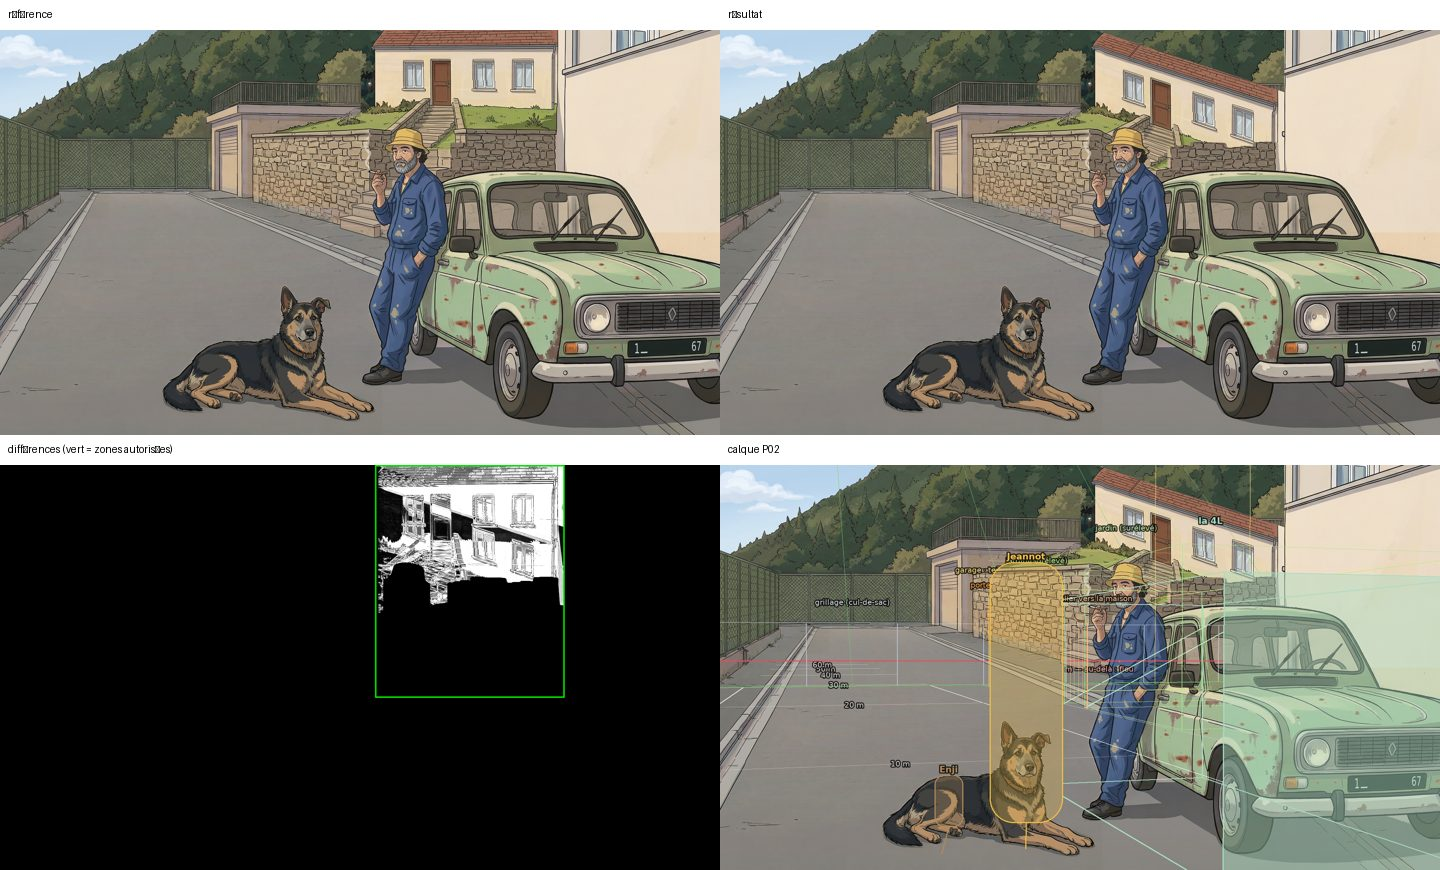
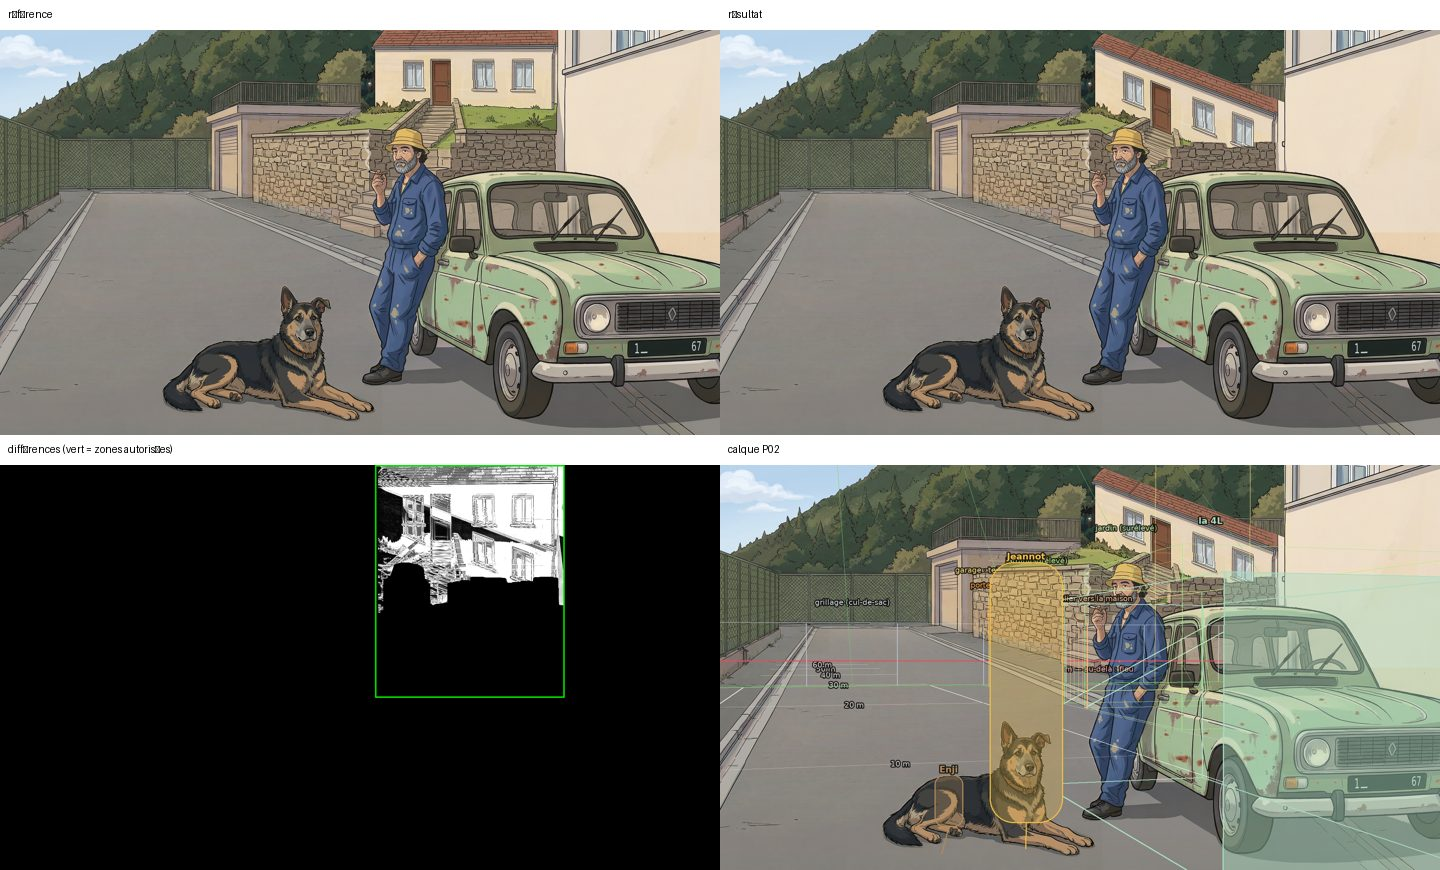
P02 : bas du mur calé sur la pente de la ligne de route (v27/v28 + planche de preuve refaites)

diff --git a/tools/p02_v27.py b/tools/p02_v27.py
@@ -44,7 +44,10 @@ DOSSIER = RACINE / "assets/storyboards/a-valider/p02"
 SRC = DOSSIER / "p02-v26-maison-parallele.png"
 
 X0, X1, RAMPE = 1000, 1505, 30
-PENTE_V26 = 0.0553                  # bas du mur de la v26 (pente de la v13)
+PENTE_V26 = 0.0016                  # bas du mur RÉELLEMENT peint dans la v26 (mesuré colonne par colonne :
+                                    # 248 colonnes, x 1200-1470, y ≈ 205 : +0,16 %).  L'ancienne valeur 0,0553
+                                    # (pente de la v13) donnait un bas du mur à 18,4° au lieu de 21,0° : la ligne
+                                    # de la planche dérivait donc de 24 px — c'était la cause du refus du 16/10.
 PENTE_ROUTE = 0.3838                # ligne de route pointée (498,429)->(993,619)
 PENTE_MURET = -0.0443               # base du mur de soutènement (la terrasse), v13/v26
 PAS_PIERRES = 40                    # hauteur d'un rang de pierres (variante B)

diff --git a/docs/storyboard-a-valider.md b/docs/storyboard-a-valider.md
@@ -248,17 +248,17 @@ Repère mesuré : dans la v13 (validée), l'écart entre le bas du mur et le bor
 - 💬 *2026-10-16 06:59* — 3 version  et la maison n'a pas bougé d'un pouce toujours mal orienté c'est incroyable . est ce que tu as regarde le plan de la carte interactive  est ce que tu crois que sur le plan la maison est orienté comme ça  et ne me parle plus de toit je te parle de la maison.Regzrde cette carte interactive regarde regarde bien la maison comment elle est sur le plan  rien  de compliqué pourtant.
 
 **P02 · v27** — ⏳ à valider — tools/p02_v27.py --variante A — la v26 telle quelle, sauf la maison, le jardin et la terrasse : cisaillement vertical par colonne à décalage ENTIER (aucun rééchantillonnage : les pixels sont recopiés tels quels, les verticales restent verticales, les angles entre les lignes sont conservés — c'est le style « projection cavalière » déjà utilisé par la v26), ancré à l'ouest (x 1000 : rien ne bouge) et arrêté à x 1505 (le mur de la maison voisine ne bouge pas). Le bas du mur passe de +5,5 % (v26) à **+38,38 %**, la pente exacte de la ligne de route pointée (498,429)->(993,619). Le bandeau libéré au-dessus du toit est comblé par la forêt voisine copiée en miroir 2D (aucun flou, aucune couleur nouvelle). Jeannot, la 4L et la rue ne sont jamais touchés : le cisaillement s'arrête à leur contour. Contrôle p02-v27-controle.jpg (CONFORME : hors zones 0,00 ; zone couleurs 100 %, netteté ×0,94, bord 17,4) · 🟢 conforme à la carte actuelle (rév. 2)  
-**Réponse directe à l'avis du 16/10 06:58** (« dis-moi en quoi ces lignes sont parallèles ? »). Mesure de tes pointages : ta ligne de façade (1000,212)->(1470,217) est à **+1,1 %** et ta ligne de route (498,429)->(993,619) à **+38,4 %** — elles se croisent en (−98 ; 200) : tu as raison, elles n'étaient pas parallèles. Ici **le bas du mur de la maison prend exactement la pente de ta ligne de route** : les deux droites sont donc parallèles (voir la planche de contrôle **P02 · v27-preuve** : les deux lignes se superposent). Effet : la maison descend vers la droite à 21°, comme la rue ; le toit, la gouttière, le jardin, le chaperon du mur et les marches de l'escalier du jardin suivent le même angle (les angles entre eux sont inchangés).
+CORRIGÉE le 16/10 : le bas du mur est calé sur la PENTE DE LA LIGNE DE ROUTE pointée (+38,38 % = 21,0°) — écart 0,0° avec ton pointage. Le mur, la porte, les fenêtres, le jardin et les marches basculent dans le sens de la rue (cisaillement vertical par colonne, pixels recopiés tels quels, décalage max 193 px à l'est). Personnages, 4L, rue et pierres du soutènement intacts (contrôle retouche CONFORME : hors zones 0,00). Voir la planche de preuve, refaite elle aussi.
 
 <img src="../assets/storyboards/a-valider/p02/p02-v27-maison-pente-route.png" width="640" alt="P02 v27">
 
 **P02 · v28** — ⏳ à valider — tools/p02_v27.py --variante B — même méthode (cisaillement vertical par colonne, décalage entier, même zone), mais la façade prend la pente du **mur de soutènement** (−4,43 %), qui est l'autre ligne « parallèle à la rue » de l'image ; le bas du mur passe de +5,5 % à −4,43 % : il monte doucement vers la droite. Le bandeau libéré est comblé par la maçonnerie du mur (copie décalée d'un rang de pierres, 40 px : aucun flou). Contrôle p02-v28-controle.jpg (CONFORME : hors zones 0,00 ; zone couleurs 100 %, netteté ×1,01, bord 5,6) · 🟢 conforme à la carte actuelle (rév. 2)  
-**Autre lecture du même avis** : la règle que tu as donnée le 16/10 à 05:07 (« de face et 90°, c'est par rapport à la rue, pas à la caméra ») dit qu'une façade parallèle à la rue apparaît **de biais, doucement montante vers la droite, comme le mur de soutènement ≈ −2°**. Ici le bas du mur prend exactement la pente du mur de soutènement de la terrasse : la maison monte donc doucement vers la droite, et la ligne de façade est parallèle aux pierres de la terrasse (et non à la ligne de route pointée). Changement discret par rapport à la v26. À comparer avec la v27 : même méthode, pente opposée.
+Autre lecture : le bas du mur prend la pente du MUR DE SOUTÈNEMENT (−4,43 % ≈ −2,5°) — la maison reste quasi d'aplomb, comme la v26 mais calée sur la terrasse. Même méthode, contrôle CONFORME (hors zones 0,00).
 
 <img src="../assets/storyboards/a-valider/p02/p02-v28-maison-pente-mur-soutenement.png" width="640" alt="P02 v28">
 
-**P02 · v27-preuve** — 🔁 à retoucher — planche de contrôle : les deux lignes de l'avis tracées sur la v26 (en haut) et sur la v27 (en bas) — ligne de façade pointée (1000,212)->(1470,217) en jaune, ligne de route pointée (498,429)->(993,619) en vert, et sur la v27 le bas du mur de la maison en cyan (1000,192)->(1470,372) · 🟢 conforme à la carte actuelle (rév. 2)  
-**Le contrôle de recette que tu as demandé** : en haut (v26), tes deux lignes se croisent — elles ne sont pas parallèles. En bas (v27), le **bas du mur de la maison a la même pente que ta ligne de route** (+38,4 %, écart 0,0°) : les deux lignes sont parallèles.
+**P02 · v27-preuve** — ⏳ à valider — planche de contrôle : les deux lignes de l'avis tracées sur la v26 (en haut) et sur la v27 (en bas) — ligne de façade pointée (1000,212)->(1470,217) en jaune, ligne de route pointée (498,429)->(993,619) en vert, et sur la v27 le bas du mur de la maison en cyan (1000,192)->(1470,372) · 🟢 conforme à la carte actuelle (rév. 2)  
+PLANCHE CORRIGÉE : la ligne cyan est tracée sur le bas du mur réellement peint (le jardin, les marches, le mur), la ligne verte est ta ligne de route recopiée à l'identique juste dessous, en gris ton ancienne ligne de façade. Échelle 1:1 (aucune déformation) + zoom x2.
 
 <img src="../assets/storyboards/a-valider/p02/p02-v27-preuve-parallele.png" width="640" alt="P02 v27-preuve">
 

diff --git a/docs/REPRISE.md b/docs/REPRISE.md
@@ -872,6 +872,18 @@ rév. 15, puisque c'est la carte qui a été recalée sur elle.
 5. **Cohérence P03**, puis P04 → P29.
 6. **À la toute fin du storyboard** (avis v33) : agrandir toutes les images retenues pour faire du
    vrai 1080p, en augmentant la qualité et les détails **sans changer l'image**.
+          ⚠ **Correction du 16/10 (07h)** — l'avis « *ta ligne bleu n'est pas parallèle à la ligne verte* » était
+          fondé. La v27 était calée sur `PENTE_V26 = 0,0553` (pente de la v13) alors que le bas du mur
+          **peint** de la v26 est à **+0,16 %** (mesuré colonne par colonne : 248 colonnes, x 1200-1470,
+          y ≈ 205, pente +0,0016) : le bas du mur sortait donc à **18,4°** au lieu de **21,0°**, et la ligne
+          tracée sur la planche (21,0°) dérivait de ~25 px le long de la façade — d'où le refus. `tools/p02_v27.py`
+          porte désormais `PENTE_V26 = 0,0016` : le bas du mur obtenu vaut **+38,38 % (21,0°)** exactement comme
+          la ligne de route pointée (écart 0,0°). v27 et v28 régénérées, contrôles CONFORME (hors zones 0,00 ;
+          netteté ×0,94 / ×1,01 ; bord 18,6 / 4,4), et `p02-v27-preuve-parallele.png` refaite à l'**échelle 1:1**
+          (la ligne cyan est tracée sur le bas du mur *peint*, la verte est la ligne de route recopiée juste
+          dessous, la grise est l'ancienne ligne de façade plate) avec un zoom x2. Leçon : une ligne de preuve
+          doit être tracée sur le contour **mesuré** dans l'image, jamais sur des coordonnées construites.
+
 
 ---
 
